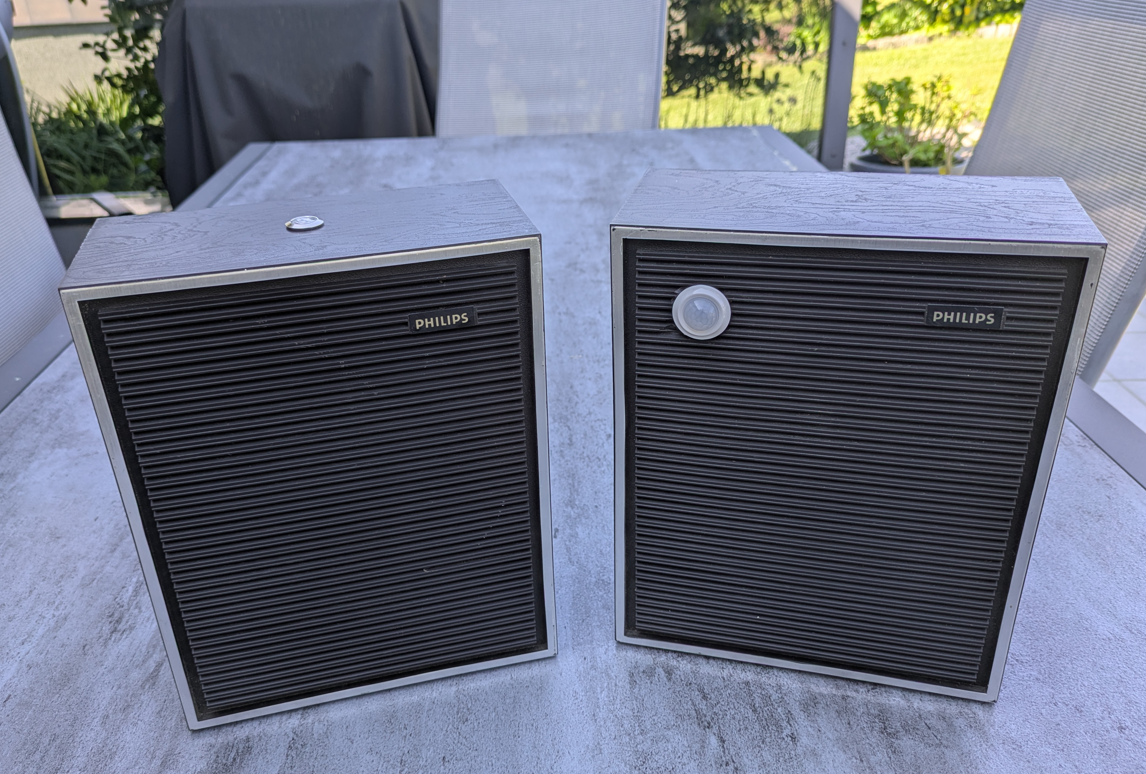
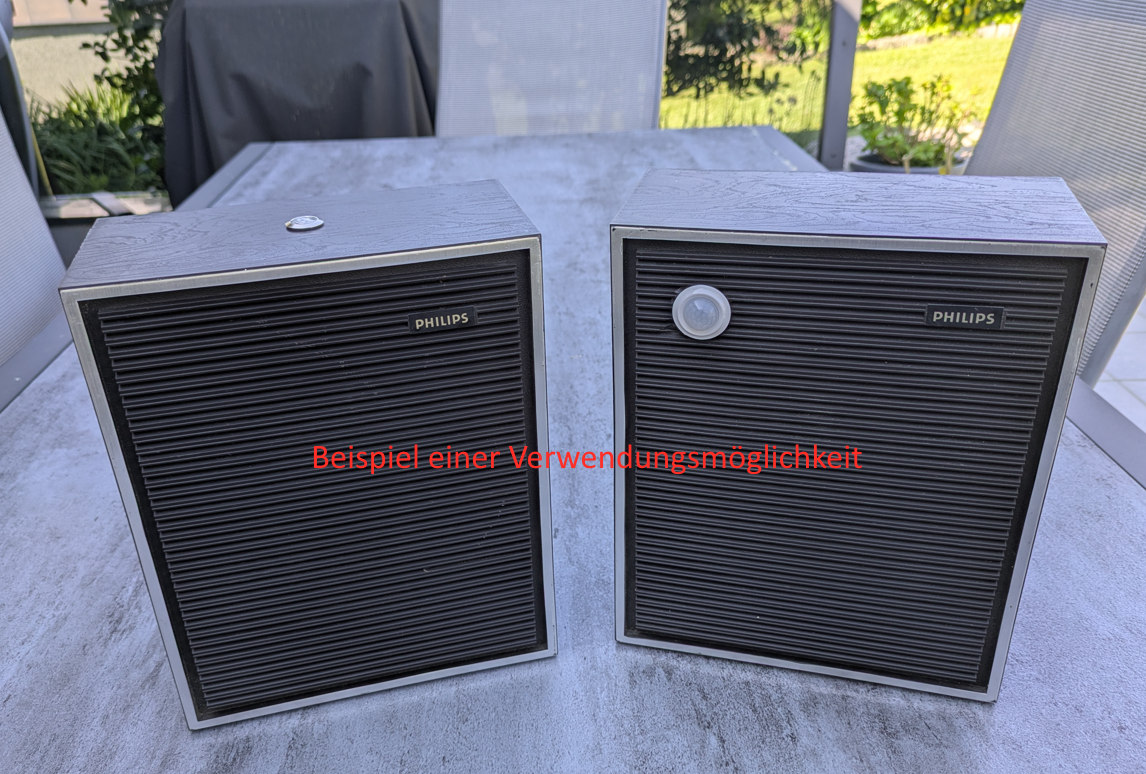
Extended `AudioPool`  to play live streams, Improvement: Random selection of entries

Changed region(s): [[0.2749, 0.5581, 0.7635, 0.6202]]

diff --git a/src/main.cpp b/src/main.cpp
@@ -48,7 +48,7 @@
   4.0.0 Add Simple Web Server functionality
   4.1.0 Add Web UI for Action Key 4 with selectable Sound/Audio Pools, and more MQTT commands to trigger Action Keys and select Sound/Audio Pools
   5.0.0 Chore: update espressif32 platform to 7.0.0
-  5.0.1 Add MQTT commands to enable/disable for Stop4Press, ActionKeys, WebUI, FTP und MQTT
+  5.0.1 Add MQTT commands to enable/disable for Stop4Press, ActionKeys, WebUI, FTP und MQTT and extend sound pool for play Live Streams
 */
 
 #define FIRMWARE_VERSION "5.0.1"
@@ -133,6 +133,7 @@ String LastAction = "";
 // Variable to store the start time of Action Key 4 for cooldown management
 time_t prevKey4PressTime;
 time_t key4PressTime ;
+int lastKey4randIndex = 0;
 
 
 // JSON document for app.ini file
@@ -151,12 +152,18 @@ const long timeoutTime = 2000;
 void stopPlaySound()
 {
   // Serial.println("Stop Play Sound");
-  currentLiveStream = "";
-  decoder.end();
-  url.flush();
-  url.end();
-  url.clear();
-  copier.end();
+    Serial.println("MQTT Stopping playing");
+    currentLiveStream = "";
+    i2s.setMute(true);
+    decoder.end();
+    url.flush();
+    url.end();
+    url.clear();
+    // i2s.end();
+    copier.end();
+    delay(100);
+    i2s.setMute(false);
+
 }
 
 void playKey4Sound()
@@ -185,12 +192,21 @@ void playKey4Sound()
       int playlistSize = playlist.size();
       
       // Zufallsgenerator mit analogRead auf einem freien Pin initialisieren
-      int randomIndex = randomRange(0, playlistSize - 1);
+      int randomIndex = 0;
+      do{
+        randomIndex = randomRange(0, playlistSize - 1);
+      } while (playlistSize > 1 && randomIndex == lastKey4randIndex); // Sicherstellen, dass bei mehreren Tracks nicht derselbe direkt hintereinander gespielt wird
+      
+      lastKey4randIndex= randomIndex;
 
       Serial.println("Naechster Sound: "  + String(randomIndex) + " / " + String(playlistSize));
       const char* nextTrack = playlist[randomIndex].as<const char*>();
 
-      queueOrder.push(nextTrack);
+      if (String(nextTrack).substring(0, 3) == "ls!" ) {
+        currentLiveStream = String(nextTrack).substring(3);
+      } else {
+        queueOrder.push(nextTrack);
+      }
       mqttClient.publish((S_HOST_NAME + "/key4").c_str(), rtc.getTime().c_str(), 24);
       Serial.println ("Play -- " + String(nextTrack));
 
@@ -617,17 +633,7 @@ void mqttCallback(char *topic, byte *message, unsigned int length)
   }
   else if (String(topic) == S_HOST_NAME + "/stop" or String(topic) == S_MQTT_HOUSE + "/stop")
   {
-    Serial.println("MQTT Stopping playing");
-    currentLiveStream = "";
-    i2s.setMute(true);
-    decoder.end();
-    url.flush();
-    url.end();
-    url.clear();
-    // i2s.end();
-    copier.end();
-    delay(100);
-    i2s.setMute(false);
+    stopPlaySound();
     //queueOrder.push("mp3" + S_START_SOUND);
   }
   else if (String(topic) == S_HOST_NAME + "/tts" or String(topic) == S_MQTT_HOUSE + "/tts")
@@ -767,6 +773,8 @@ void mqttCallback(char *topic, byte *message, unsigned int length)
       B_STOP2PRESS_ENABLE = (messageTemp == "on");
       Serial.println("Stop 2 Press Enable set to " + String(B_STOP2PRESS_ENABLE));
     }
+  } else if (String(topic) == S_HOST_NAME + "/press/key4") {
+      playKey4Sound();
   }
 
   //Serial.println(String(topic) + " - " + messageTemp);
@@ -809,6 +817,7 @@ void mqttReconnect()
       mqttClient.subscribe((S_HOST_NAME + "/enable/mqtt").c_str());  // 
       mqttClient.subscribe((S_HOST_NAME + "/enable/akey").c_str());  // 
       mqttClient.subscribe((S_HOST_NAME + "/enable/stop2press").c_str());  // 
+      mqttClient.subscribe((S_HOST_NAME + "/press/key4").c_str());  // 
 
       // House
       mqttClient.subscribe((S_MQTT_HOUSE + "/tts").c_str());
@@ -1157,4 +1166,4 @@ void loop()
         }
       }
   }
-}
+}     

diff --git a/CHANGELOG.md b/CHANGELOG.md
@@ -2,11 +2,17 @@
 
 All notable changes to the AMPlayer project will be documented in this file.
 
-## [5.0.1] - 2026-05-12
+## [5.0.1] - 2026-05-13
 
-* Add MQTT commands to enable/disable for Stop4Press, ActionKeys, WebUI, FTP server und MQTT client. The changed states are not saved to app.ini.
+* Add MQTT commands to enable/disable for Stop4Press, ActionKeys, WebUI, FTP server und MQTT client and press/key4. The changed states are not saved to app.ini.
 * Add a button to the WebUI to simulate pressing KEY4
 * Add Key4 long-press  (10s+) action to toggle Web UI on/off
+* Extended `SoundPool` / `AudioPool` with the possibility to play live streams (radio stations).
+* Improvement: Random selection of entries from SoundPool/AudioPool
+
+### Notes
+
+* Pressing `Key4` plays a random entry, `Key6` increases the volume, and `Key5` decreases the volume. This is just one way to control the AMPlayer. The best solution is the IKEA STYRBAR remote control.
 
 ## [5.0.0] - 2026-05-10
 

diff --git a/README.md b/README.md
@@ -100,7 +100,6 @@ client\_insecure->setConnectionTimeout(client\_timeout);
 client_secure->setTimeout(client_timeout);
 client_insecure->setTimeout(client_timeout);
 
-
 ### 🛠️ Fix SD Card Access Issue in FTP Server
 
 To fix SD card access problems in the FTP server, you need to modify the storage backend definition.
@@ -135,7 +134,6 @@ The AMPlayer can only play MP3 files with a sampling rate of 44,100 Hz (44.1 kHz
 
 he `app.json` file is best edited using [WinSCP](https://winscp.net?utm_source=chatgpt.com) and [Notepad++](https://notepad-plus-plus.org?utm_source=chatgpt.com): simply download the file, make your changes locally in Notepad++, and upload it again afterward.
 
-
 Please note that the player's FTP server supports only a single connection at a time. Attempting to open a second connection may result in errors.
 
 Before uploading, it is recommended to always validate the format of the `app.json` file using the “JSON Tools” plugin for Notepad++.
@@ -164,14 +162,12 @@ The following error conditions are supported:
 - **Error 3 – Network connecting error**
   - The system failed to connect to the Wi-Fi network.
 
-## Web  UI 
+## Web  UI
 
 The WebUI is primarily designed to control the Audio Messenger and can also be used for testing and diagnostics.
 
 * Press and hold the Key4 switch for more than 10 seconds to turn the WebUI on or off
 * URL for access within the local network: **http://[host-name]/**
-
-
 * ![1777297215554](images/README/1777297215554.png)
 
 ## MQTT Topics from the  Smart Home to MP3/TTS/LS Player
@@ -195,6 +191,7 @@ The WebUI is primarily designed to control the Audio Messenger and can also be u
 | [host-name]/enable/ftp        | gong/enable/ftp        | on or off                             | Enable or disable the FTP server                                           |
 | [host-name]/enable/mqtt       | gong/enable/mqtt       | on or off                             | Enable or disable the MQTT server                                          |
 | [host-name]/enable/stop2press | gong/enable/stop2press | on or off                             | Enable or disable the Stop2Press server                                    |
+| [host-name]/press/key4        | gong/pressKey4         |                                       | Start play sound/audio from pool                                    |
 |                               |                        |                                        |                                                                            |
 | [mqtt-house]/mp3              | gong/mp3               | /mp3/gong-a.mp3                        | Play all players from the group [mqtt-house]                               |
 | [mqtt-house]/tts              | gong/tts               | Hallo                                  |                                                                            |
@@ -250,11 +247,12 @@ Each entry in the referenced array represents an action command. Each command be
 
 * **tts / ttm**: The command is treated as text-to-speech input, followed by the text to be spoken.
 * mp3: The command refers to an audio file, including its file name and path on the SD card.
+* ls! : The command plays a live stream (radio station)
 
 When triggered, the system processes each entry in the selected `soundPool` and executes the corresponding actions according to their prefixes.
 
 * **tts / ttm**: followed by the text to be spoken
-* mü3: followed by the file name and path on the SD card
+* mp3: followed by the file name and path on the SD card
 
 When the Key4 key is pressed and If the interval since the last release time is exceeded, the system randomly selects an element from the selected audio pool (soundPool) and performs the appropriate actions based on its prefix.
 